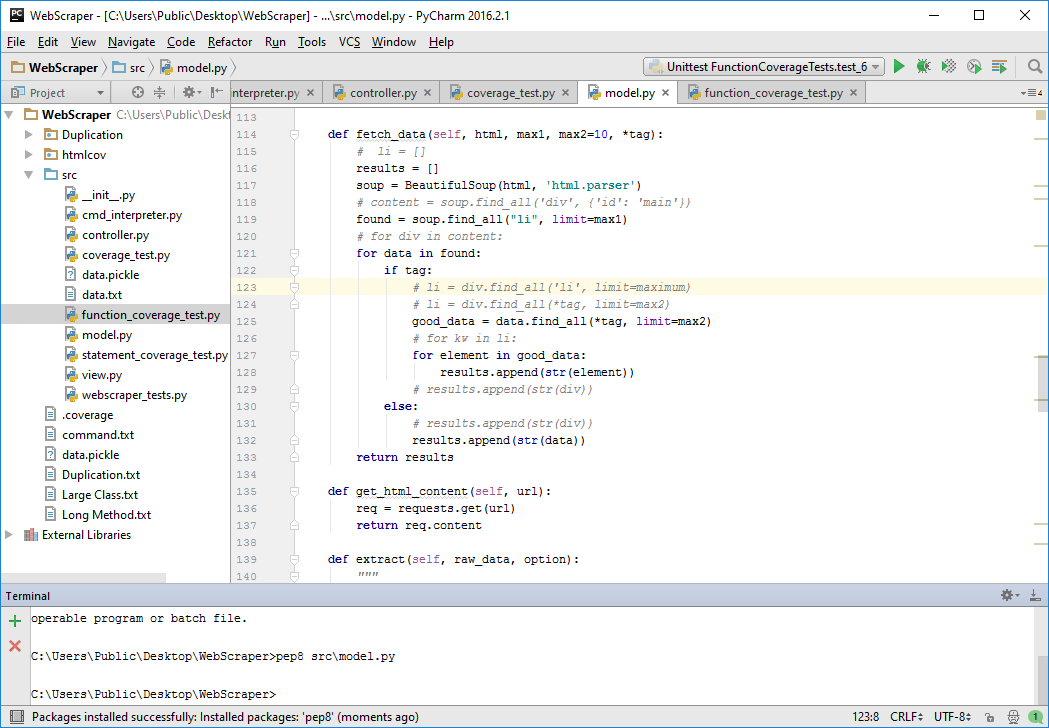
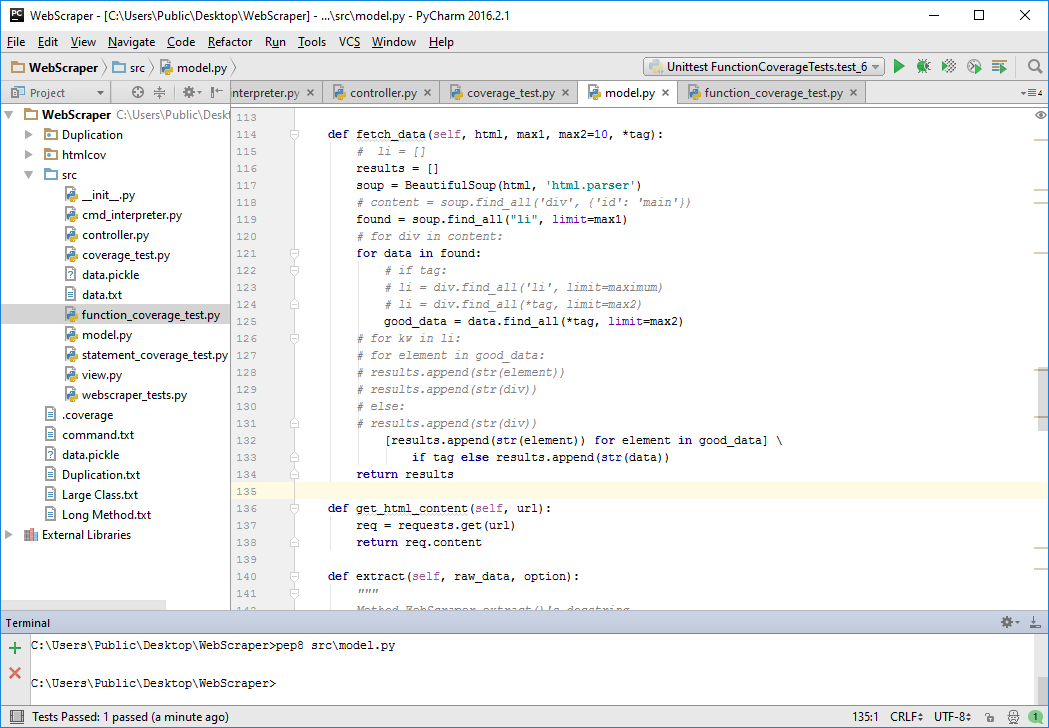
Add files via upload
Duplication
Step 9 - Rewrote statement in less lines

diff --git a/src/model.py b/src/model.py
@@ -119,17 +119,18 @@ class WebScraper:
         found = soup.find_all("li", limit=max1)
         # for div in content:
         for data in found:
-            if tag:
-                # li = div.find_all('li', limit=maximum)
-                # li = div.find_all(*tag, limit=max2)
-                good_data = data.find_all(*tag, limit=max2)
-                # for kw in li:
-                for element in good_data:
-                    results.append(str(element))
-                # results.append(str(div))
-            else:
-                # results.append(str(div))
-                results.append(str(data))
+            # if tag:
+            # li = div.find_all('li', limit=maximum)
+            # li = div.find_all(*tag, limit=max2)
+            good_data = data.find_all(*tag, limit=max2)
+        # for kw in li:
+        # for element in good_data:
+        # results.append(str(element))
+        # results.append(str(div))
+        # else:
+        # results.append(str(div))
+            [results.append(str(element)) for element in good_data] \
+                if tag else results.append(str(data))
         return results
 
     def get_html_content(self, url):
